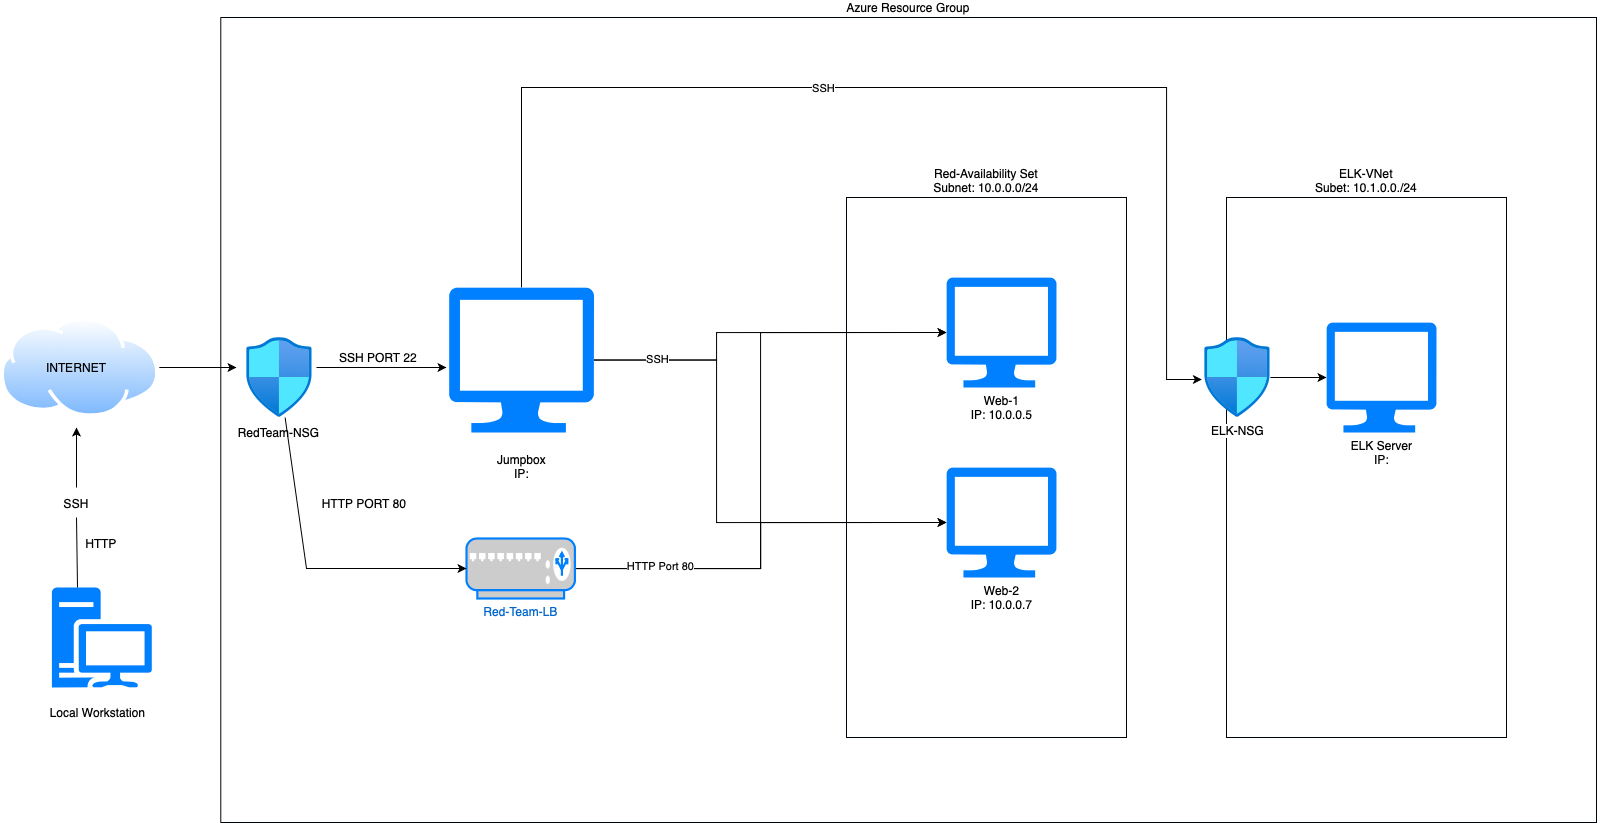
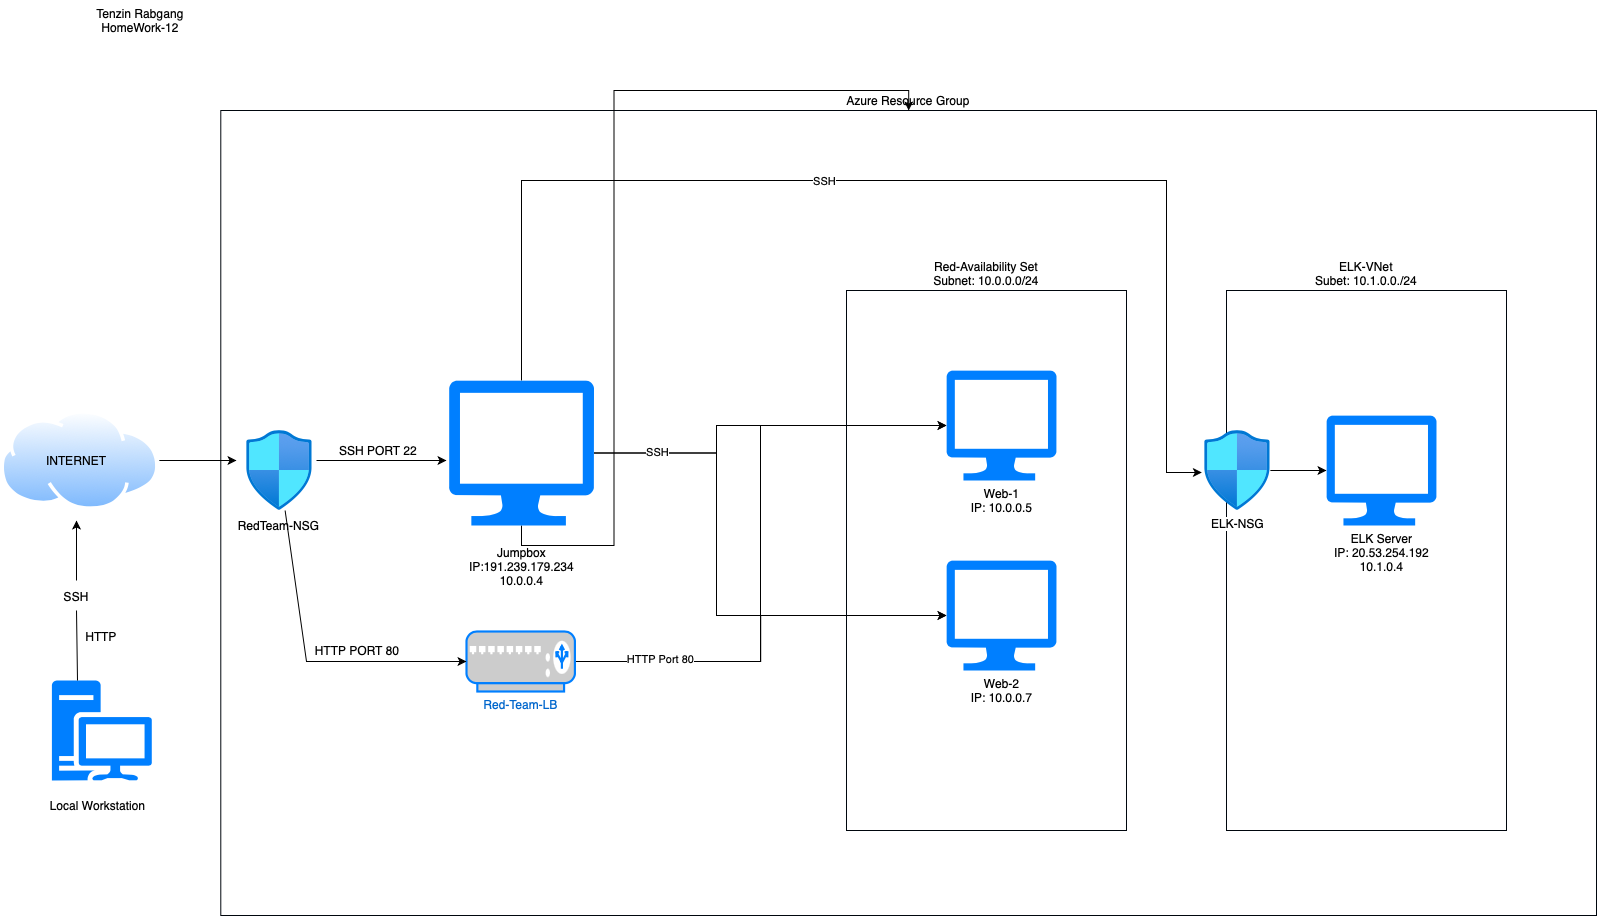
metricbeat

diff --git a/README.md b/README.md
@@ -78,25 +78,57 @@ The following screenshot displays the result of running `docker ps` after succes
 
 ### Target Machines & Beats
 This ELK server is configured to monitor the following machines:
-- _TODO: List the IP addresses of the machines you are monitoring_
+
+List the IP addresses of the machines you are monitoring
+- Jobox-Provisioner: 91.239.179.234
+- Web-1: 10.0.0.5
+- Web-2: 10.0.0.7
+- Web-3: 10.0.0.8
 
 We have installed the following Beats on these machines:
-- _TODO: Specify which Beats you successfully installed_
+- Web1, Web2, Web3, ELK-Server
+    - Filebeat
+    - Metricbeat 
 
 These Beats allow us to collect the following information from each machine:
-- _TODO: In 1-2 sentences, explain what kind of data each beat collects, and provide 1 example of what you expect to see. E.g., `Winlogbeat` collects Windows logs, which we use to track user logon events, etc._
+
+- The filebeat allows us to collect system types such as watches for sudo commands, ssh logins, and account linux logins to check loging activities.
+
+- Metricbeat collects useful data such as the CPU, RAM, and network usages.
+
 
 ### Using the Playbook
 In order to use the playbook, you will need to have an Ansible control node already configured. Assuming you have such a control node provisioned: 
 
 SSH into the control node and follow the steps below:
-- Copy the _____ file to _____.
-- Update the _____ file to include...
-- Run the playbook, and navigate to ____ to check that the installation worked as expected.
+- *Copy the elk_install.yml file to /etc/ansible/roles/elk_install.yml*
+- *Update the hosts file to include...*
+- *Run the playbook, and navigate to http://[your_elk_server_ip]:5601/app/kibana to check that the installation worked as expected.
 
-_TODO: Answer the following questions to fill in the blanks:_
+ _Answer the following questions to fill in the blanks:_
 - _Which file is the playbook? Where do you copy it?_
 - _Which file do you update to make Ansible run the playbook on a specific machine? How do I specify which machine to install the ELK server on versus which to install Filebeat on?_
 - _Which URL do you navigate to in order to check that the ELK server is running?
 
 _As a **Bonus**, provide the specific commands the user will need to run to download the playbook, update the files, etc._
+
+To run playbook, we need to run the curl command below on Jump Box
+    
+    - ansible-playbook/etc/ansible/roles/elk_install.yml
+    - check the installtion status by browsing http://[your-elk-server-ip]:5601/app/kibana
+    
+
+ - ![](Diagrams/playbook-installation.png)
+
+
+
+
+
+Installing Filebeats:
+
+- Download and run the given playbook curl: curl -L -O https://artifacts.elastic.co/downloads/beats/metricbeat/metricbeat-7.6.1-amd64.deb
+
+- Run the playbook with: ansible-playbook /etc/ansible/roles/filebeat_playbook.yml
+
+
+ - ![](Diagrams/filebeats.png)
